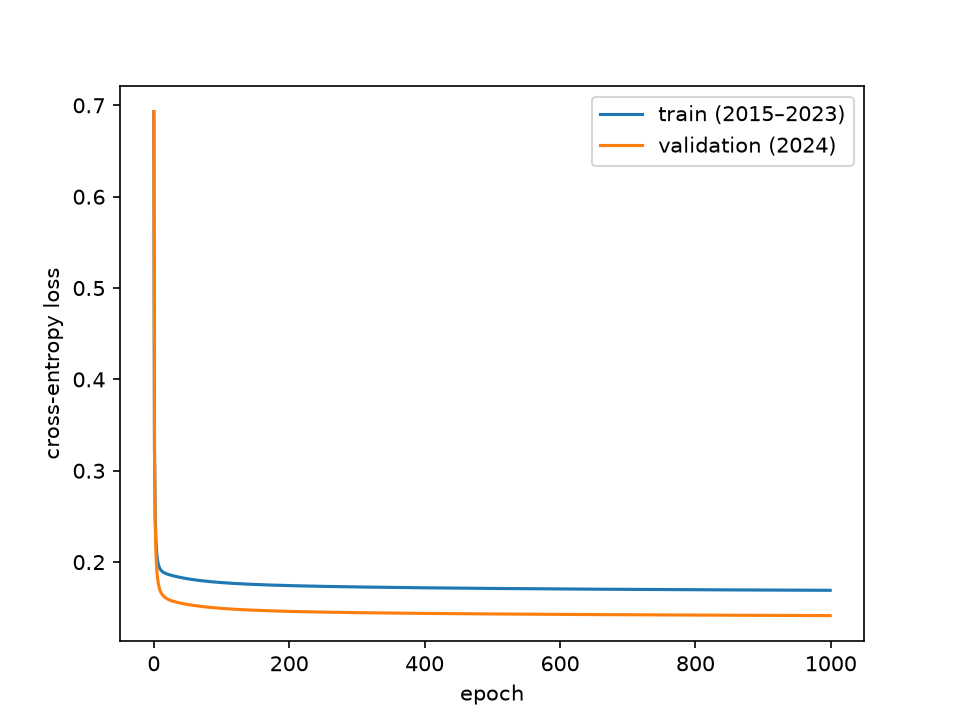
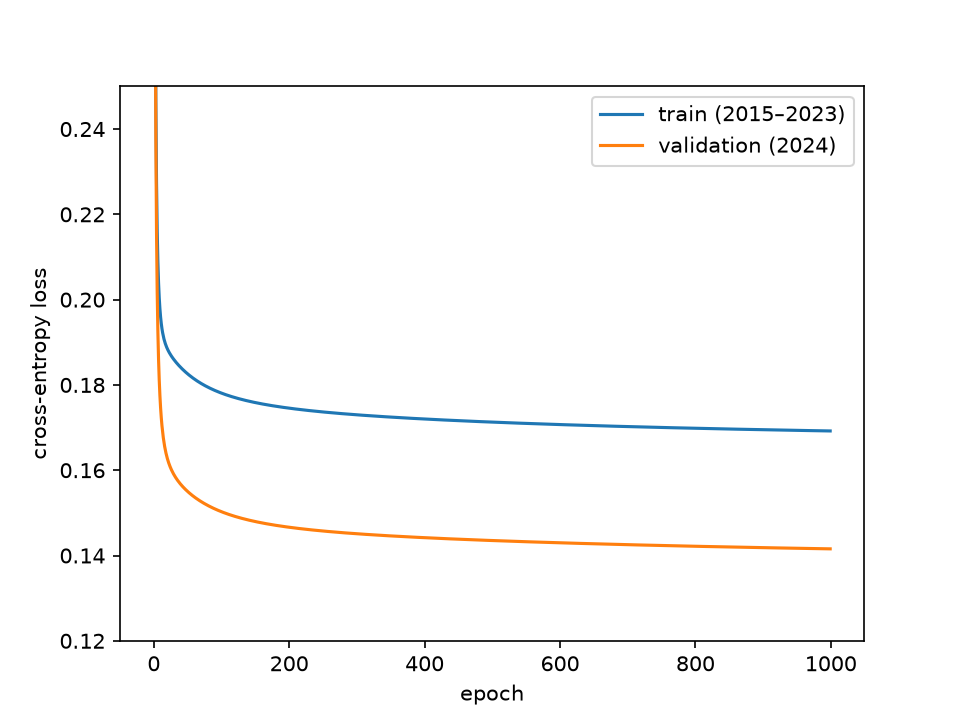
Remove constant feature, evaluate on validation

diff --git a/LOG.md b/LOG.md
@@ -33,6 +33,21 @@ Raw notes for the README and the essay. Every number is copied from a notebook o
   - passenger fall 0.7% (4,412)
 - Rates based on fewer than ~100 crashes are unreliable (e.g. 27.6% based on 76 crashes)
 
+## 2026-10-25: Logistic regression from scratch (NumPy)
+
+- 261 features (200 one-hot, 60 multi-hot, 1 standardized number)
+- Unit tests passed: sigmoid(0) = 0.5, loss(0.5, 1) = 0.693, the gradient matches the hand-computed example
+- Full-batch gradient descent, lr = 0.5, 1000 epochs, weights start at 0
+- Train loss: 0.6931 (epoch 0) → 0.1776 (epoch 100) → 0.1691 (epoch 1000), still slowly falling
+- Validation (2024) loss: 0.1414. Baseline ("every crash = 4.65%"): 0.1571, so the model is ~10% better
+- Validation (2024) ROC-AUC: 0.739. The baseline gets 0.5 by definition, since it gives every crash the same number
+- Top 10% riskiest crashes by model (2024): 12.7% were fatal (vs 3.6% overall) and they contain 34.9% of all fatal crashes
+- Largest odds ratios (correlation, not causation):
+  - raise: pedestrians involved x1.87, motorcyclists x1.74, hitting an obstacle x1.59, dark without street lighting x1.40, hours 0–6 x1.2–1.3
+  - lower: collision x0.43, daylight x0.47, passenger fall x0.56
+- Bug found: `participant_categories_Все участники` is 1 in every crash, so it acts as a second bias term. Its "x0.44" is meaningless
+- Validation loss is lower than train loss because 2024 has fewer fatal crashes (3.6% vs 4.65%), which makes it easier to predict. Losses on sets with different fatal rates can't be compared directly
+
 ## My notes (I write these myself)
 
 - What surprised me:
